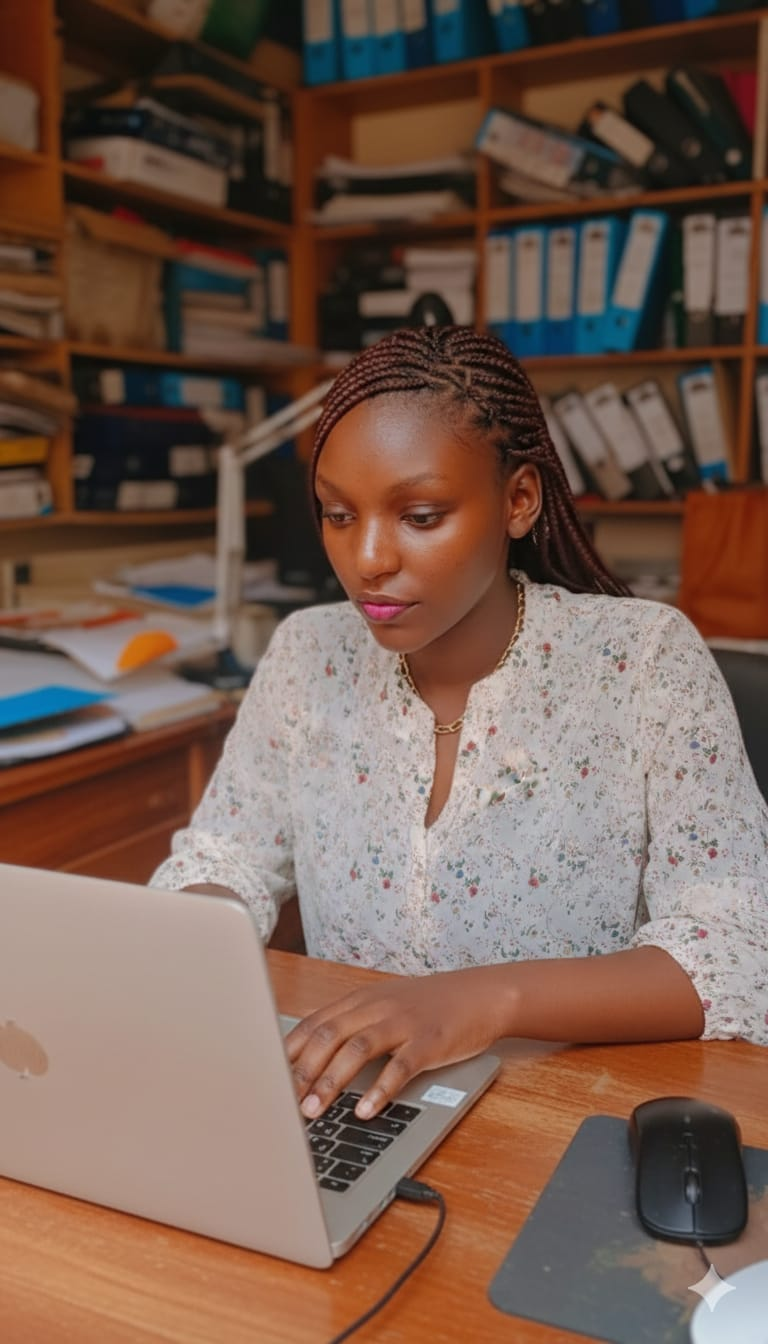
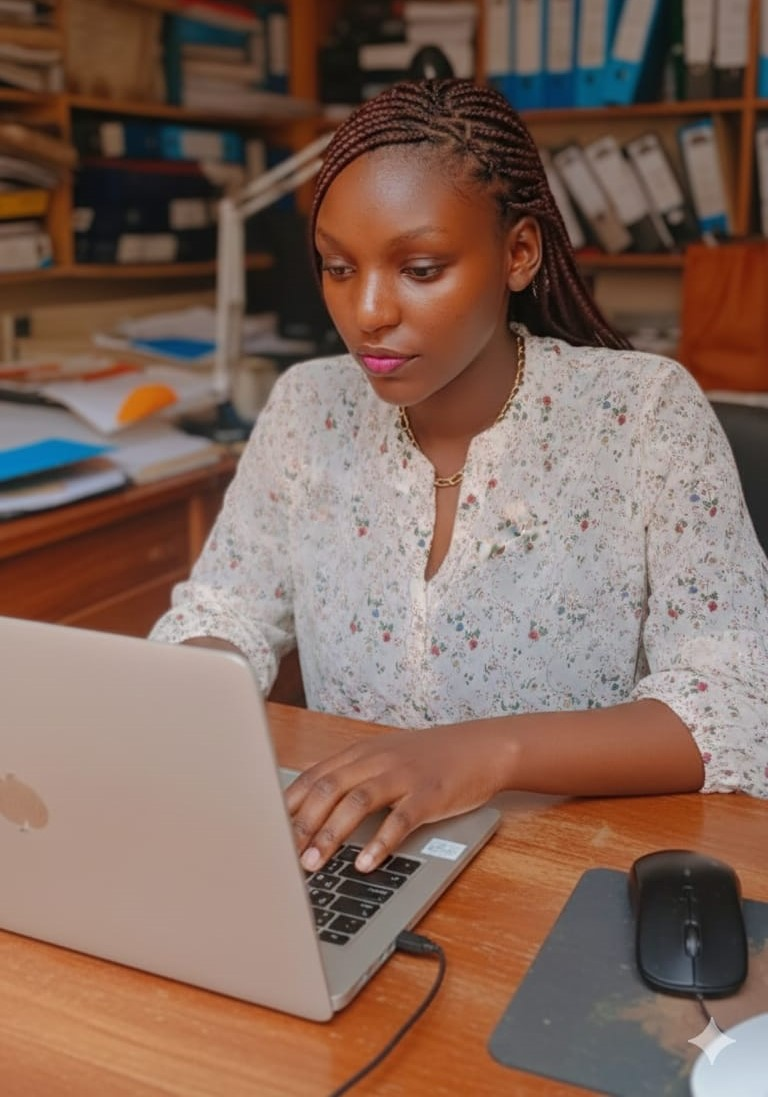
Update website images

diff --git a/index.HTML b/index.HTML
@@ -571,18 +571,18 @@
         }
 
         .team-img-wrapper {
-            height: 320px;
-            overflow: hidden;
-            background: #e2e8f0;
-        }
+    height: 400px; /* Increased height to give breathing room */
+    overflow: hidden;
+    background: #e2e8f0;
+}
 
-        .team-img-wrapper img {
-            width: 100%;
-            height: 100%;
-            object-fit: cover;
-            object-position: top center;
-            transition: var(--transition);
-        }
+.team-img-wrapper img {
+    width: 100%;
+    height: 100%;
+    object-fit: cover;
+    object-position: center 15%; /* Ensures top of head and face are nicely framed */
+    transition: var(--transition);
+}
 
         .team-card:hover .team-img-wrapper img {
             transform: scale(1.03);
